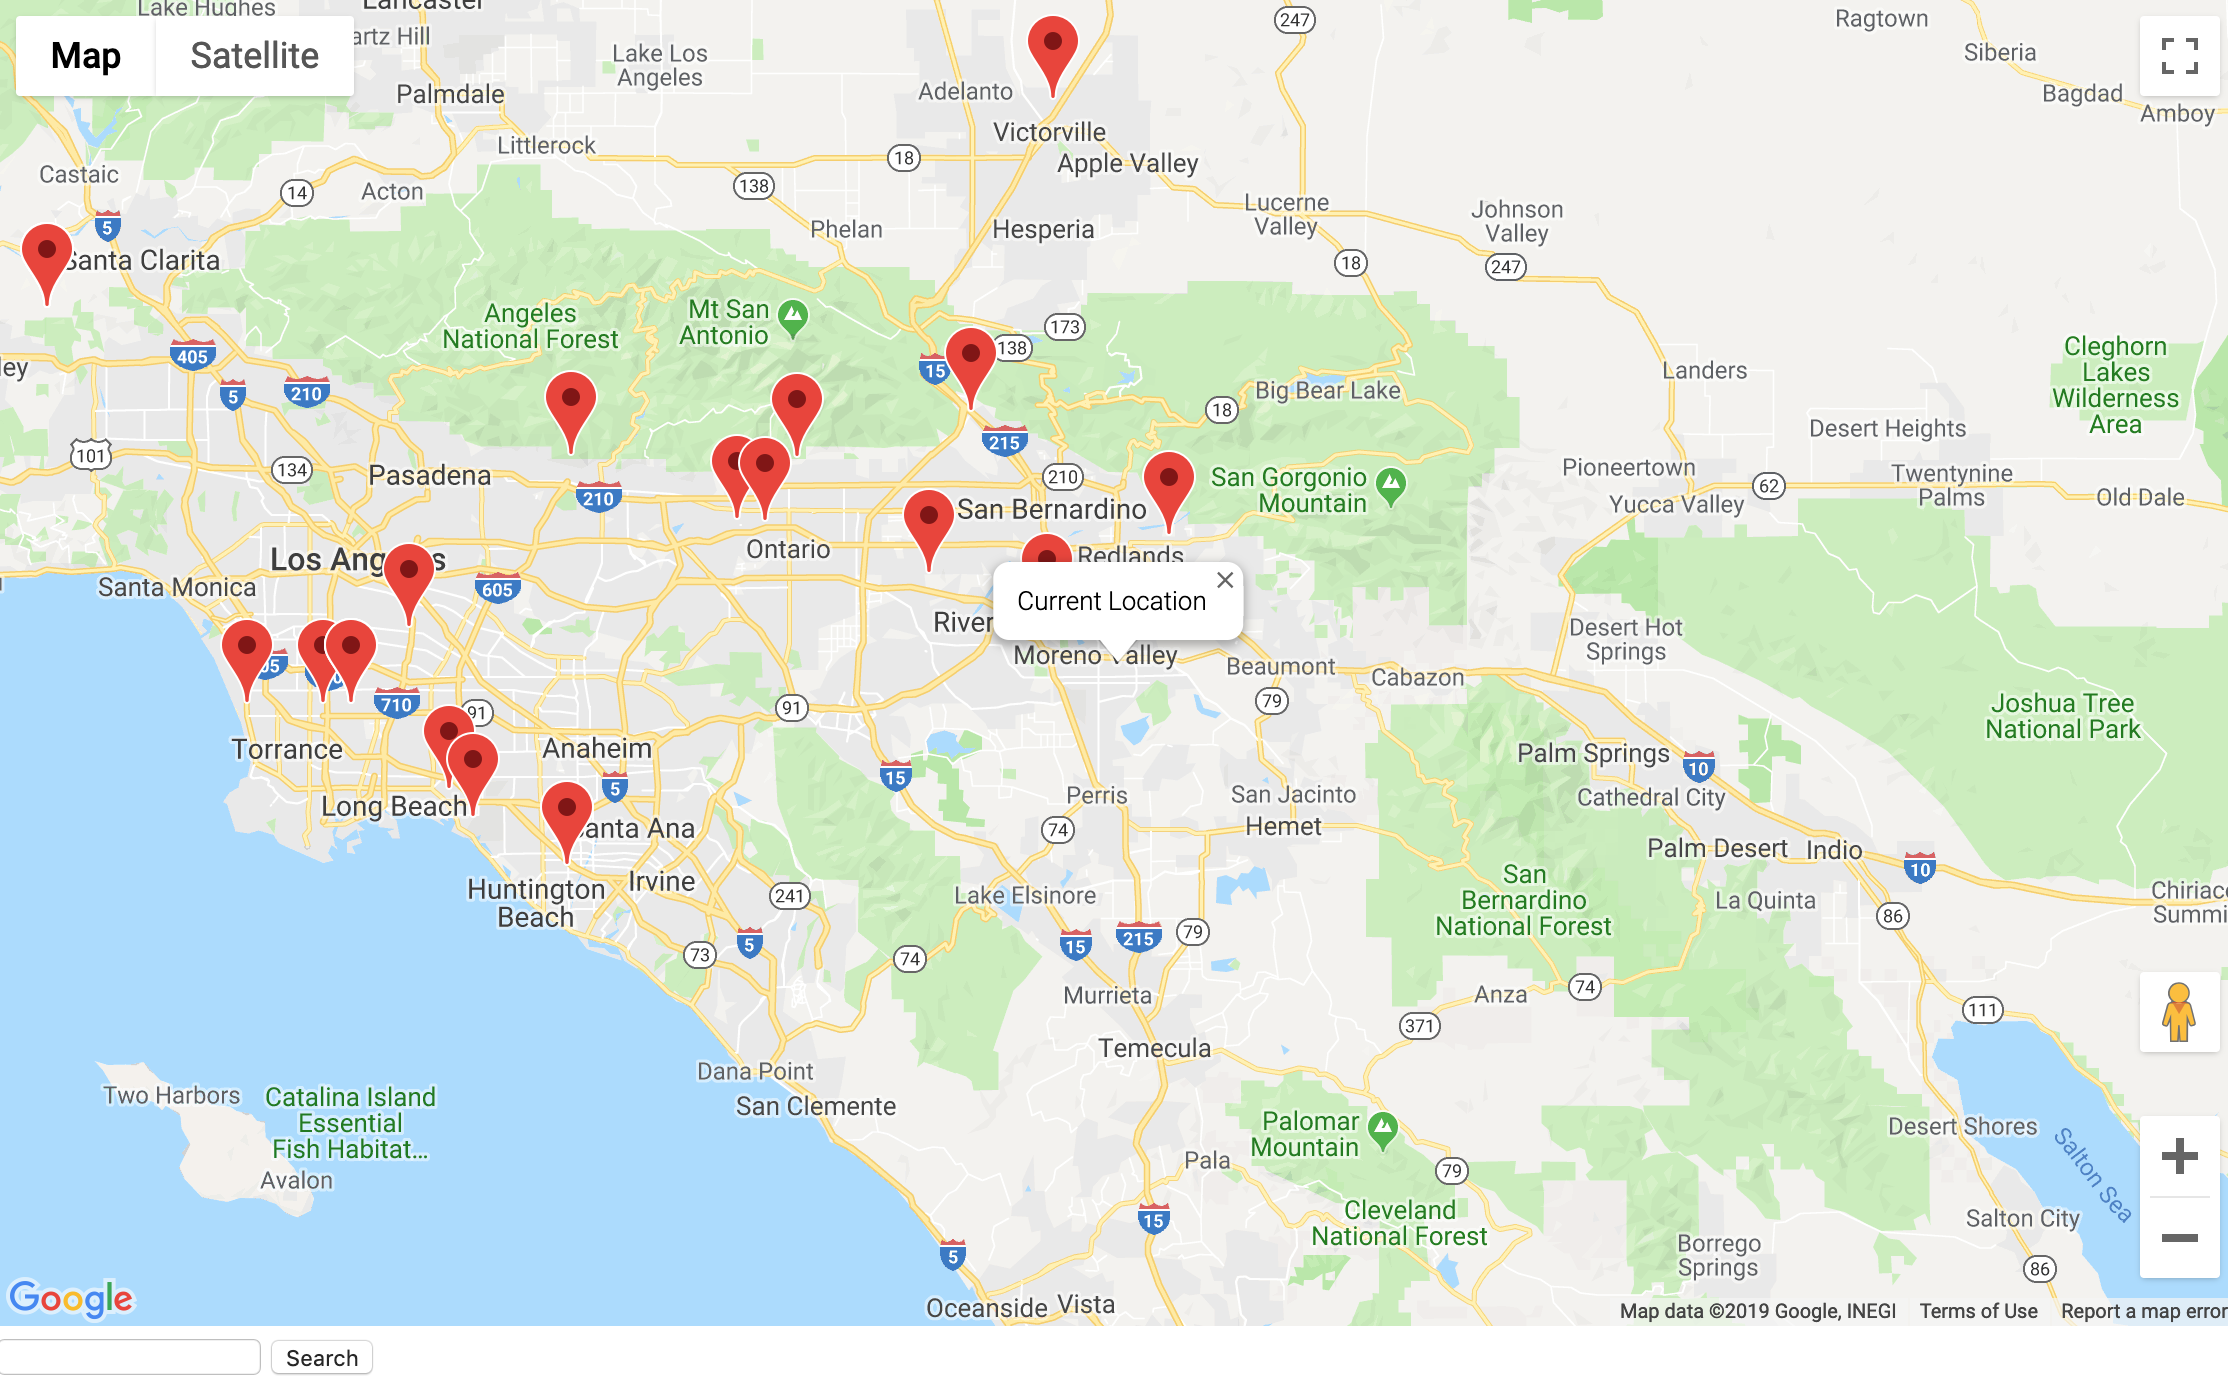
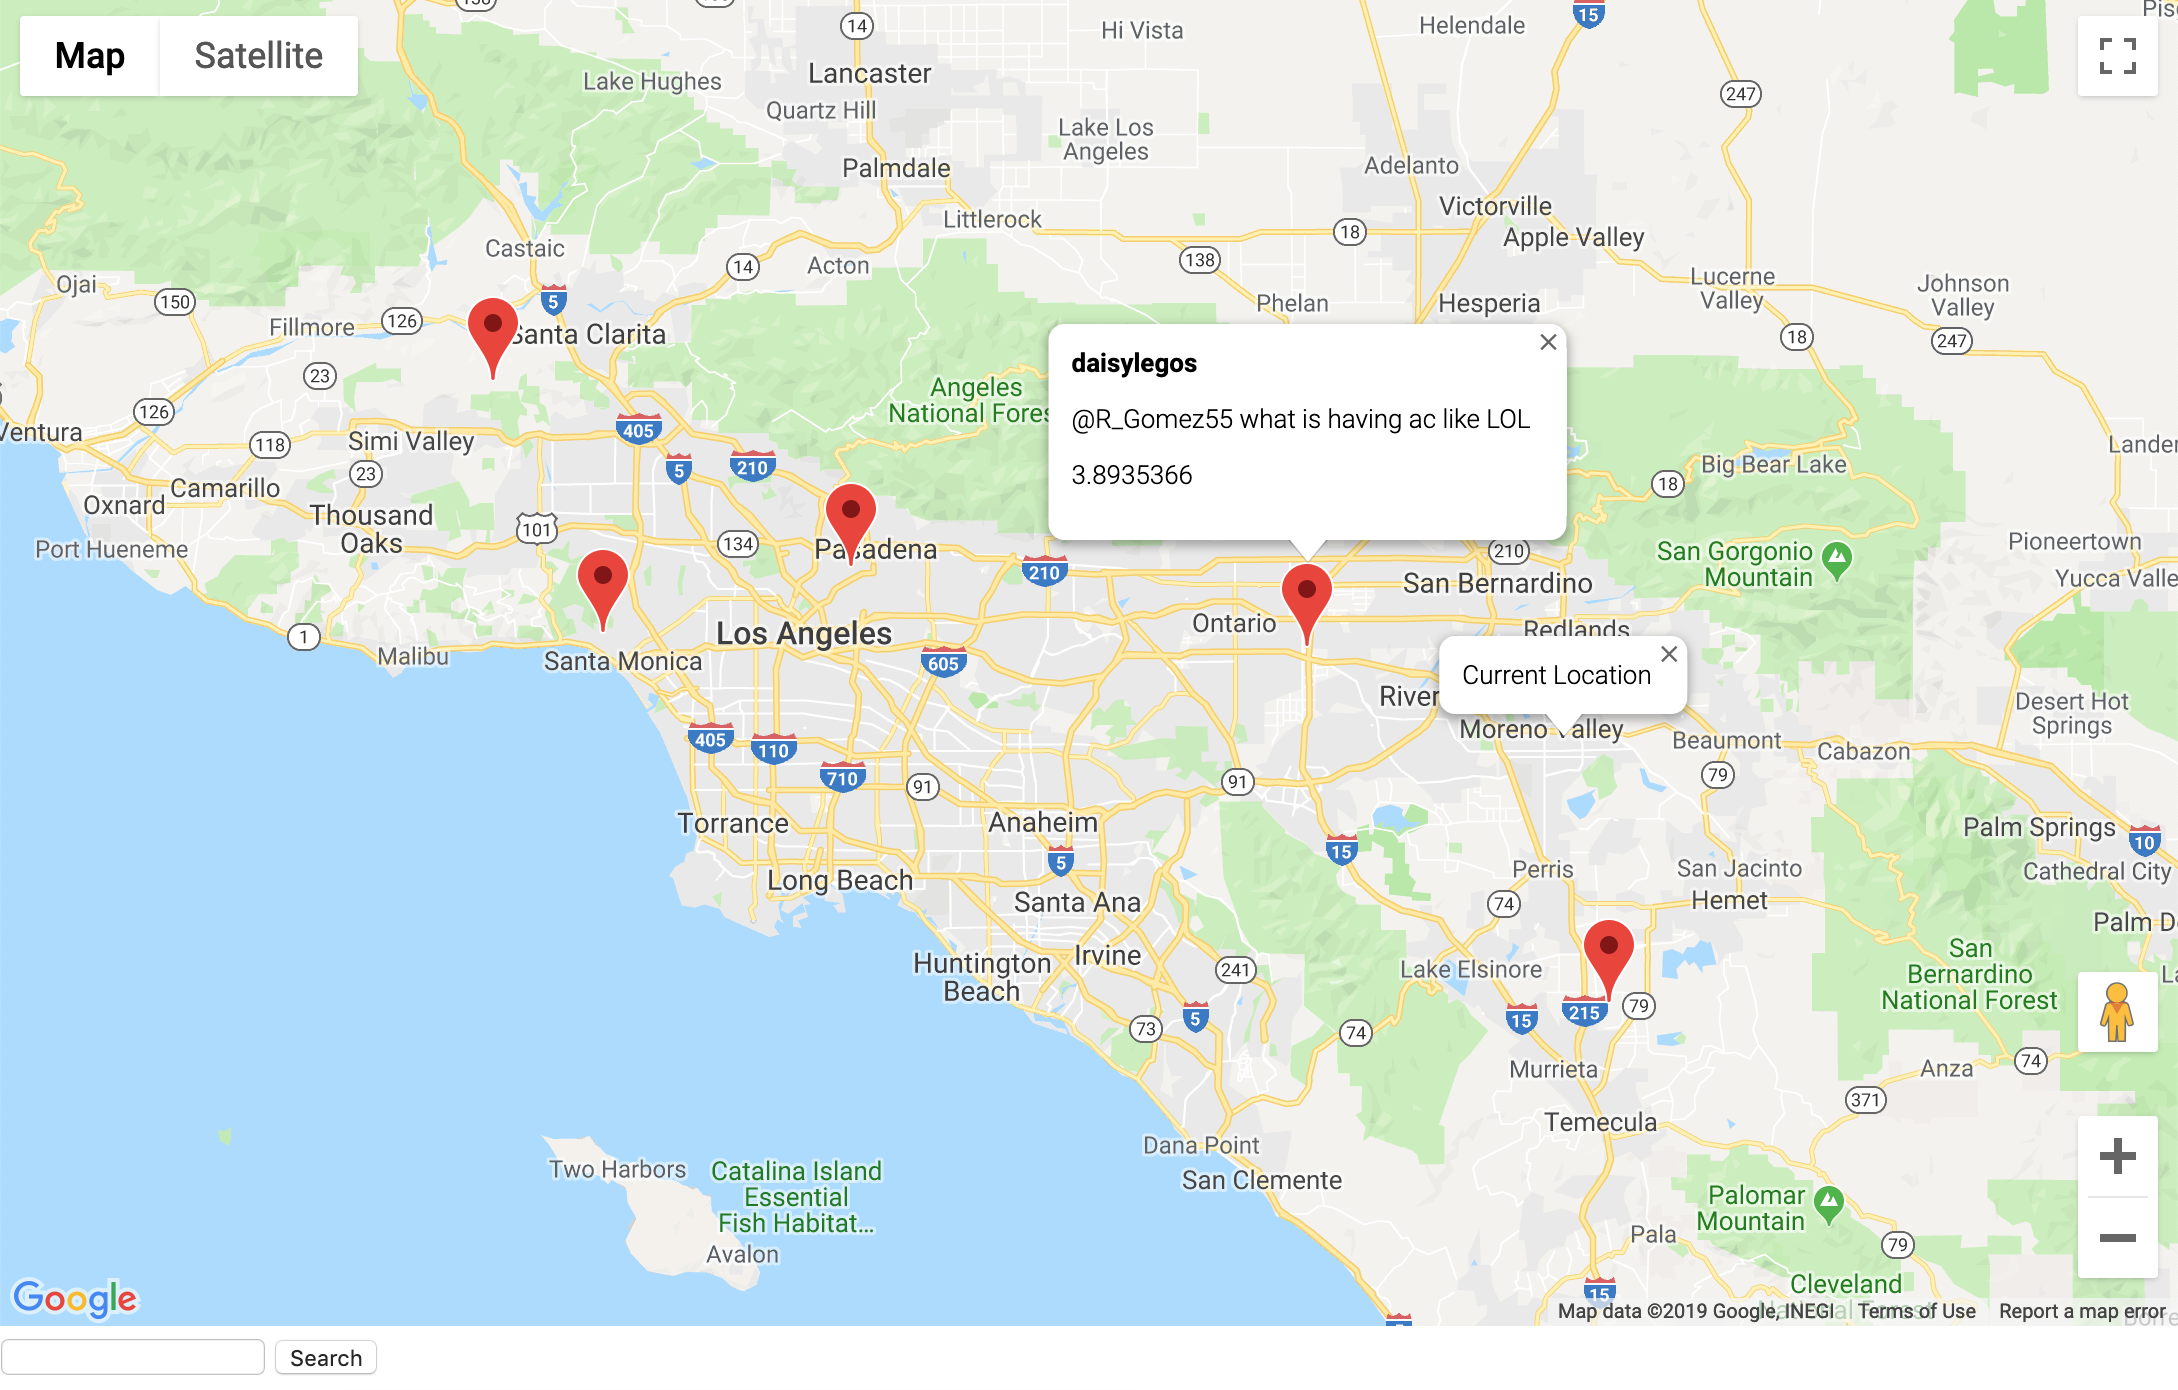
updated readme

diff --git a/tweetToMap.js b/tweetToMap.js
@@ -72,6 +72,7 @@
       }
       };
     }
+    
     fetch("./q.json")
     .then(function(resp) {
       return resp.json();

diff --git a/README.md b/README.md
@@ -6,19 +6,25 @@ This project utilizes the Twitter Streaming API to collect and map geolocated tw
           Kevin Frazier
           Nate Mueller
 
-### How to run:
+## How to run:
 
 
 
 
+Set up for Part 3 - Extension: Follow the README setup in the elastic folder. When running the curl command, add '>> q.json'.
+This will create a json file with an output of the relevant query. 
 
+The user can simply change the word in the command line with any word he/she wants to see in "text:" field, as well as the radius of the tweet
+from the user location.
 
-### Design:
+TweetToMap.js will read in the 'q.json' file and add marker/s to the relevant tweet/s with relevant information. "
 
+## What's included:
 
+      sampleTweets.json - 1GB of twitter data
+      index.html & tweetToMap.js -  UI framework
 
-
- ### Part 1 - Crawler
+ ## Part 1 - Crawler
  1. Collaborate Details: 
 
    Kevin Frazier: Implemented twitter stream..etc
@@ -35,11 +41,13 @@ This project utilizes the Twitter Streaming API to collect and map geolocated tw
 
  3. Limitations 
 
+      Limitations includes
+
  4. How to deploy the crawler
 
  5. Screenshots
 
- ### Part 2 - Indexer
+ ## Part 2 - Indexer
  1. Collaborate Details: Nate Mueller 
 
  2. Overview of system 
@@ -54,16 +62,17 @@ This project utilizes the Twitter Streaming API to collect and map geolocated tw
  
  4. How to deploy the system
 
- ### Part 3 - Extension
+      Refer to README in elastic folder 
+
+ ## Part 3 - Extension
  1. Collaborate Details: Katherine Legaspi 
 
- We chose the Twitter geolocation extension that allows for search and display results on a map. The extension takes in user location, if browser allows, and center maps to the current location. 
- 
- Each tweet relevant to the query entered by the user will be marked with a red point. When the marker is clicked, a bubble should display the username, tweet text, and the score.
+ We chose the Twitter geolocation extension that allows for search and display results on a map. The extension takes in user location, if browser allows, and center maps to the current location. Each tweet relevant to the query entered by the user will be marked with a red point. When the marker is clicked, a bubble should display the username, tweet text, and the score.
 
- A limitation I encountered is that if multiple tweets have the same geolocation (same longitude and latitude), only one tweet is displayed.
+ A limitation I encountered is that if multiple tweets have the same geolocation (same longitude and latitude), only one tweet is displayed. We chose to implement the Twitter geolocation because it would a good visualization of twitter data. 
 
 Tools: Google Maps API
 
+This map image example runs the query word: "like" in a 1000km radius from user location
+![map](runMap.png)
 ![map](map.png)
-![tweet](tweetMap.png)
